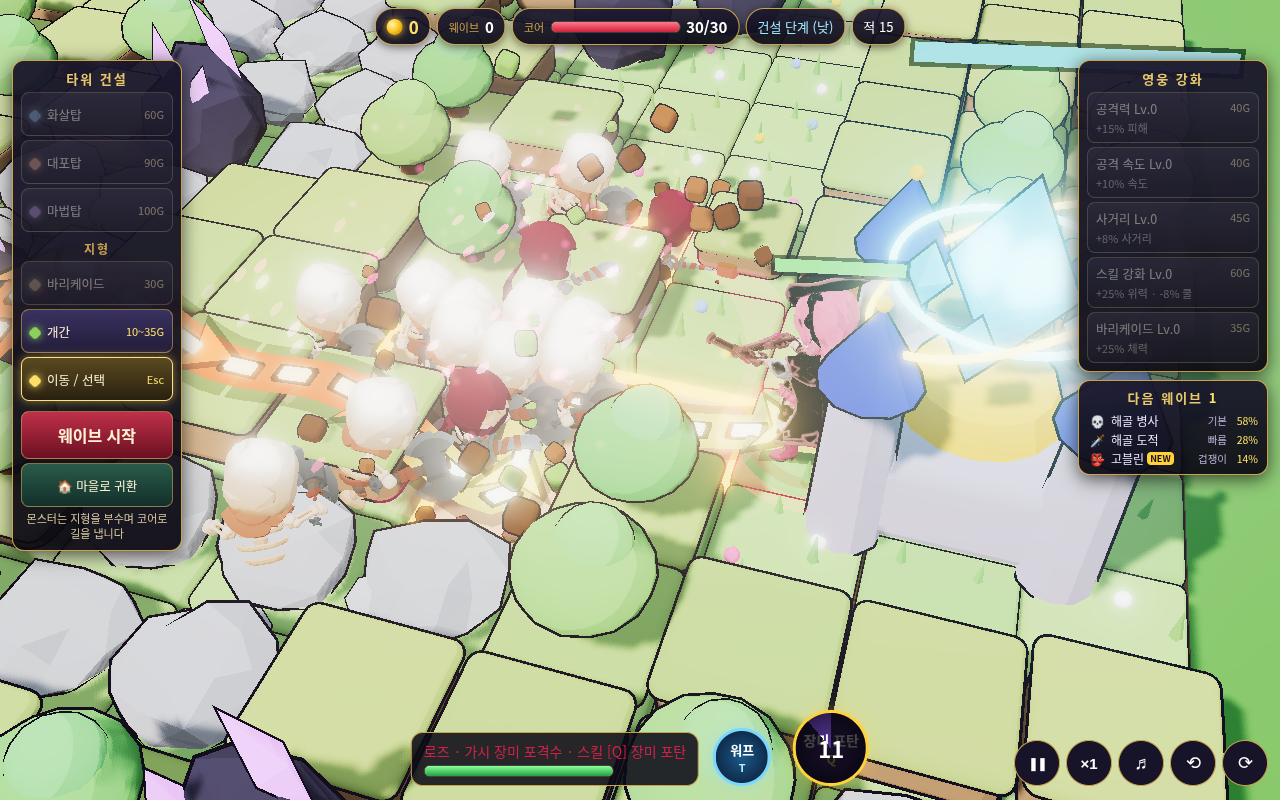
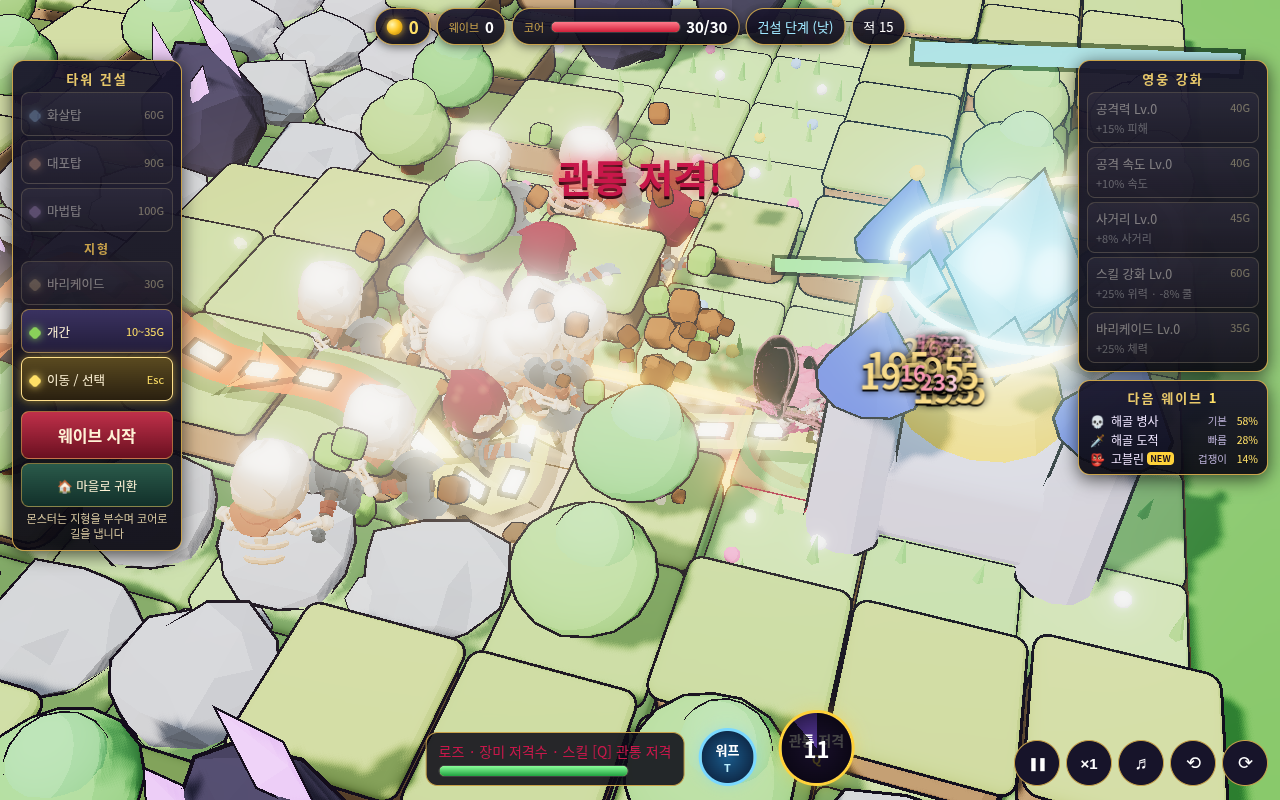
로즈 장미 저격수: 체크리스트 완료·DPS 표, 스크린샷 shots/advance/rose_rifle_* + ingame_gunner_thorn(저격수)

diff --git a/docs/ROSE_RIFLE_2026-10-22.md b/docs/ROSE_RIFLE_2026-10-22.md
@@ -4,19 +4,27 @@
 
 ## 체크리스트
 - [x] 조사: 전직 데이터(src/data/advance.js), 효과(src/heroes/advfx.js, gunner.js), 모델 파이프라인(gunner3d/nopose, budeul_study)
-- [ ] Meshy: 레퍼런스 이미지(몸=총 없는 로즈, 소총 소품) → image-to-3d
-- [ ] Meshy: 몸 리깅 + 소총 애니메이션(대기/달리기/조준·사격/피격/쓰러짐)
-- [ ] 모델 후처리: 압축(gltf-transform), 소총을 오른손 뼈에 강체로 부착 + 왼손 쪽으로 총열 방향
-- [ ] 게임: ADV.gunner.thorn 데이터 교체 (키 `thorn` 유지 → 저장 호환)
-- [ ] 게임: 기본 공격 = 관통 소총 탄(3명 100/70/50%) · 치명 +15% · 보스/정예 +20% · 소총 트레이서
-- [ ] 게임: Q 관통 저격 (0.6초 조준 → 직선 관통 빔)
-- [ ] 게임: 소총 모델 지연 로딩 + 실패 시 쌍권총 모델로 대체
-- [ ] 타워 보너스: 화살 타워 사거리 +8%
-- [ ] 테스트: advance.test.mjs · icons.test.mjs · growth.test.mjs · node 전체
-- [ ] 테스트: 브라우저 advance → items_ui → tablet → regress (하나씩)
-- [ ] 스크린샷 shots/advance/rose_rifle_*.png (턴어라운드 · 인게임 1440x860/1024x600 · 전직 탭 카드) 직접 확인
-- [ ] CHANGELOG
+- [x] Meshy: 레퍼런스 이미지(몸=총 없는 로즈, 소총 소품) → image-to-3d (/workspace/rose_rifle/body, rifle)
+- [x] Meshy: 몸 리깅 + 소총 애니메이션(대기/달리기/조준·사격/피격/쓰러짐) — 대기는 IdleBase+Ready 팔 graft, AimRun = 달리기 다리+견착 팔
+- [x] 모델 후처리: 압축(gltf-transform) 몸 1,118,524 B(1.07MB) · 소총 263,644 B(0.25MB). 소총은 강체 별도 모델 — 매 프레임 손잡이=오른손 손바닥, 총열=왼손 손바닥 방향으로 배치(rifleRig, 손바닥-총열 거리 실측 ≤0.03)
+- [x] 게임: ADV.gunner.thorn 데이터 교체 (키 `thorn` 유지 → 저장 호환)
+- [x] 게임: 기본 공격 = 관통 소총 탄(3명 100/70/50%) · 치명 +15% · 보스/정예 +20% · 소총 트레이서 (rifleShot, 즉발 직선 폭 0.75)
+- [x] 게임: Q 관통 저격 (0.6초 조준 → 길이 32 직선 위 전원 600% 관통 빔)
+- [x] 게임: 소총 모델 지연 로딩(저격수 분기일 때만, 배경 로딩 목록에 없음) + 실패 시 쌍권총 모델로 대체 (tests/rose_rifle.py fallback_pistols: 404 → gunner_meshy, 관통·수치 그대로)
+- [x] 타워 보너스: 화살 타워 사거리 +8% (growth.test.mjs)
+- [x] 테스트: advance.test.mjs · icons.test.mjs · growth.test.mjs · node 전체 (13/13)
+- [x] 테스트: 브라우저 rose_rifle(14 ok) → advance(54 ok) → items_ui(55/55) → tablet(198 ok) → regress(DIFF 1 = boot.models 에 rose_rifle_* 추가, 예상된 차이 · 허용 4 이내, 콘솔 오류 0) (하나씩)
+- [x] 스크린샷 shots/advance/rose_rifle_*.png (턴어라운드 · 인게임 1440x860/1024x600 · 전직 탭 카드) 직접 확인
+- [x] CHANGELOG
 - [ ] push + GitHub Pages built + 라이브 200
 
 ## 저장 호환
 분기 키 `thorn` 을 그대로 쓰고 내용만 바꿈 → 기존 `{adv:{gunner:{b:'thorn',n}}}` 저장은 비용 없이 자동으로 장미 저격수가 됨 (cleanAdv 는 키만 확인).
+
+## 수치 (기본 피해 13 · 공속 4.2, 강화 없음)
+| | 단일 DPS(이론) | 단일 실측 20초 | 부채꼴 9마리 실측 | 일렬 3마리 실측 |
+|---|---|---|---|---|
+| 🌹 장미 결투가 | 65.5 | 65.0 | 81.6 | 75.7 |
+| 🥀 옛 가시 장미 포격수 | 65.5 (13×2 × 4.2×0.6) | — | — | — |
+| 🎯 장미 저격수 | 66.0 (보스 79.2) | 62.6 | 64.2 | 143.0 |
+이론 무리 6마리(advSwarmDps): 결투가 81.9 > 저격수 ≈73.9. 실측은 치명타 난수 때문에 실행마다 ±3 정도 흔들림.
